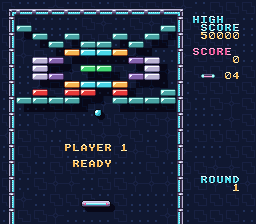
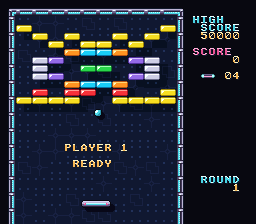
feat(examples): breakout reads at a glance, with saturated bricks and a quiet board
games/breakout was pretty and muddy. Four things blurred it:

- the bricks were pastel, and the colour most rows used (a teal) sank into
  the night blue; they now have the saturated colours of an arcade (silver,
  orange, pink, cyan, violet, green, red and yellow), the teal being
  replaced by a yellow;
- the circuit board under the playfield was a busy pattern; most of its
  cells are now the quiet one (two pairs of dots on the board's colour),
  with a few crosses and outlines, and it starts below the beam;
- the score panel floated over the same pattern: the board is now under the
  playfield only (cells 1 to 10 across), so the panel is the backdrop's
  near-black, as a separate panel;
- the shadow under the bricks darkened the board to 60 % of its tone, in
  black steps; it keeps 80 %.

All of it is drawn in devtools/art_assets/breakout.py; the tile numbering,
the map's layout and the game's logic did not change. The owner compared
the three states on the real game (before, a first pass whose empty cells
left black holes, and this one) and chose this one.

Checked: make art-assets changes only breakout's files; the example builds;
make tests ALL CHECKS PASSED (liveness 58 OK / 2 INPUT-DEP / 0 DEAD, the
manifests movement_breakout and state_breakout_game_over, audio 7/7), make
docs-strict, make lint and lint-docs clean.

Baselines re-captured, drift explained: games_breakout.png (the picture
itself, looked at) and wram.json for games/breakout (the BG3 tilemap copy
[…]

diff --git a/devtools/art_assets/breakout.py b/devtools/art_assets/breakout.py
@@ -49,10 +49,10 @@ CABINET = ["#080810", "#101828", "#282438", "#403858", "#686088", "#b8b0d0", "#e
 # the font in palettes 1 (numbers) and 2 (SCORE): shadow, body, highlight
 FONTS = {1: ["#101828", "#f0b050", "#fff0c0"], 2: ["#101828", "#e05090", "#f8b0d8"]}
 # one brick colour per BG palette 0-7: dark edge (13), body (14), light (15)
-BRICKS = [["#686088", "#b8b0d0", "#ffffff"], ["#803818", "#f0b050", "#fff0c0"],
-          ["#702050", "#e05090", "#f8b0d8"], ["#185868", "#48d0e0", "#c0fcff"],
-          ["#402858", "#8060a8", "#c8b0f0"], ["#186038", "#40d070", "#c0ffd0"],
-          ["#681828", "#e03838", "#ffb0a0"], ["#205058", "#48a0a0", "#a8f0e8"]]
+BRICKS = [["#6a6a88", "#c8c8e0", "#ffffff"], ["#b05010", "#f89020", "#ffd070"],
+          ["#a02068", "#f050a8", "#ffa0d8"], ["#0870a0", "#18c8f0", "#a0f0ff"],
+          ["#503098", "#9068e0", "#d0b8ff"], ["#107028", "#28d048", "#a0ffb0"],
+          ["#a01020", "#f03038", "#ff9890"], ["#988008", "#f0d820", "#fff890"]]
 # the sprites' palette 0 (CGRAM 128-143)
 OBJ = ["#000000", "#ffffff", "#080810", "#c0fcff", "#48d0e0", "#2890a8", "#e05090", "#8060a8",
        "#403858", "#b8b0d0", "#f8a0d0", "#686088", "#282438", "#d8d0f0", "#0a0e1a"]
@@ -88,7 +88,7 @@ def palette() -> list[tuple]:
 def backpal() -> bytes:
     out = b""
     for cols in LEVELS:
-        shade = [tuple(v * 3 // 5 for v in hexrgb(c)) for c in cols]
+        shade = [tuple(v * 4 // 5 for v in hexrgb(c)) for c in cols]
         words = [0] + [bgr15(c) for c in cols] + [0] + [bgr15("#%02x%02x%02x" % s) for s in shade]
         out += struct.pack("<8H", *words)
     return out
@@ -274,12 +274,14 @@ def bg1map() -> bytes:
 
 
 def bg2map() -> bytes:
-    """The board: a 32x32 map of 16x16 cells, palette 4."""
+    """The board: a 32x32 map of 16x16 cells, palette 4, under the playfield only (cells 1-10 across,
+    tiles 2-21, from the beam down): the score panel keeps the backdrop. Most cells are the quiet one (two pairs of
+    dots on the board's colour), a few the cross and the outline, so the circuit is a texture."""
     rng = random.Random(21)
     m = [0] * 1024
-    for cy in range(16):
-        for cx in range(16):
-            c = rng.choice((0, 0, 1, 2))
+    for cy in range(1, 16):
+        for cx in range(1, 11):
+            c = rng.choice((2, 2, 2, 2, 2, 1, 1, 0))
             for q in range(4):
                 x, y = cx * 2 + (q & 1), cy * 2 + (q >> 1)
                 m[32 * y + x] = (1 + c * 4 + q) | 4 << 10

diff --git a/CHANGELOG.md b/CHANGELOG.md
@@ -4,6 +4,16 @@ All notable changes to OpenSNES are documented in this file.
 
 ## [Unreleased]
 
+### Changed
+- feat(examples): `games/breakout` reads at a glance. The bricks have the
+  saturated colours of an arcade (silver, orange, pink, cyan, violet, green,
+  red and yellow, where the teal that most rows used sank into the night
+  blue), the circuit board under the playfield is a quiet texture (mostly
+  its small dots) and stops at the walls, so the score panel is the
+  backdrop's near-black, and the shadow under the bricks keeps 80 % of the
+  board's tone, not 60 %. Drawn in `devtools/art_assets/breakout.py`; the
+  tile numbering, the map's layout and the game's logic are unchanged.
+
 ## [0.53.0] — 2026-10-29
 
 `USE_FASTROM=1` finally speeds up the code: a LoROM build addressed its C and

diff --git a/assets/neo-lumen/README.md b/assets/neo-lumen/README.md
@@ -381,8 +381,9 @@ of cyan light), the brick (an outline and shade, a bevel, a glint and a body,
 colours 12-15 of whichever BG palette names it, eight colours in all), the
 paddle (a steel capsule with a channel of cyan light), the ball, their shadows,
 the lives icon, the library's 8x8 font with a highlight and a shadow, and
-BG3's circuit board in seven level colours. The colours are the city's, with
-a green and a red for two bricks.
+BG3's circuit board under the playfield only (the score panel keeps the
+backdrop), in seven level colours. The colours are the city's, saturated for
+the bricks so that they read at once, with a green, a red and a yellow.
 
 PixelLab was tried for the board too (`create-tiles-pro`, seeds 8201 and
 8202): on four colours its traces were darker than the board, which the
